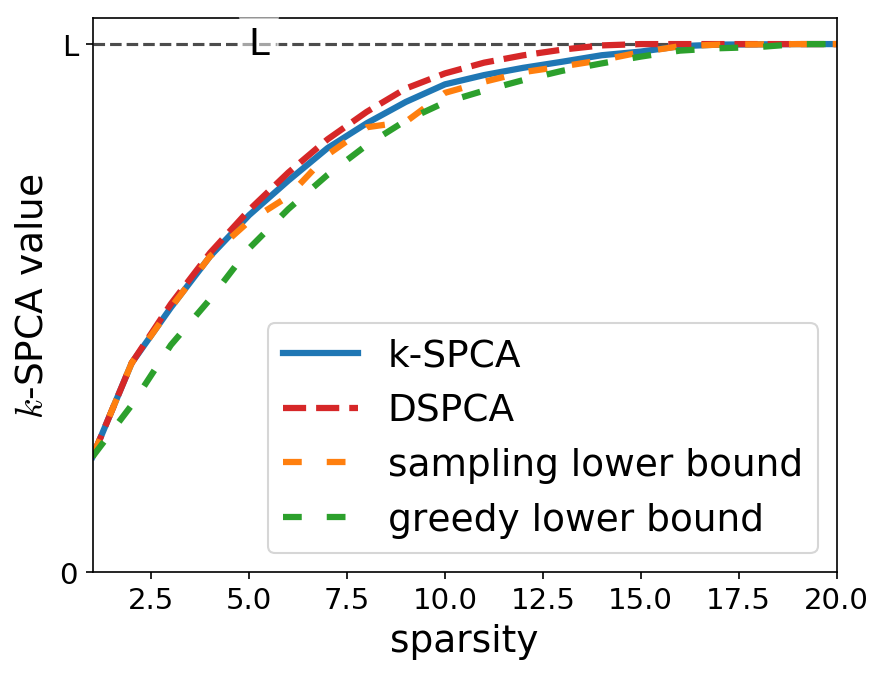
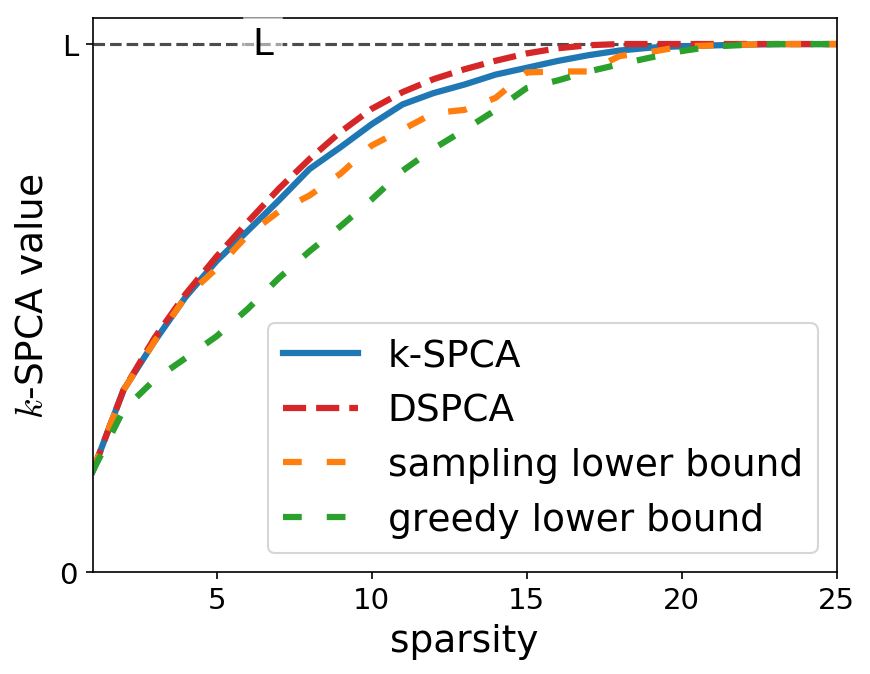
API add n_jobs to all functions

diff --git a/main.py b/main.py
@@ -29,7 +29,7 @@ if __name__ == "__main__":
         assert method in METHODS, f"Undefined method '{method}'"
         assert method in STYLES, f"You need to define a style for '{method}'"
 
-    K, p = 20, 10
+    K, p = 25, 10
     random_state = 42
     np.random.seed(random_state)
 
@@ -46,7 +46,7 @@ if __name__ == "__main__":
         print(f"\rComputing k-SPCA bounds: {(k-1) / K:7.2%}", end='',
               flush=True)
         for method in run_methods:
-            L_S = METHODS[method](B, k)
+            L_S = METHODS[method](B, k, n_jobs=6)
             if k > 1:
                 # Make sure the results are monotonic
                 L_S = max(L_S, results[method][-1])

diff --git a/spca/lower_bounds.py b/spca/lower_bounds.py
@@ -41,7 +41,7 @@ def compute_spca_lower_bound_sampling(B, k, n_samples=10000, n_jobs=1):
     return np.max(L_S)
 
 
-def compute_spca_lower_bound_greedy(B, k):
+def compute_spca_lower_bound_greedy(B, k, n_jobs=1):
     """Compute a lower bound of the k-sparse PCA of B.
 
     Parameters
@@ -50,6 +50,9 @@ def compute_spca_lower_bound_greedy(B, k):
         Matrix to extract the sub-matrix from
     k : int
         Sparsity level for the lower bound.
+    n_jobs : int (default: 1)
+        Number of jobs used for computations. Here, this parameter has no
+        effect.
 
     Return
     ------

diff --git a/spca/upper_bounds.py b/spca/upper_bounds.py
@@ -2,7 +2,7 @@
 import cvxpy as cvx
 
 
-def compute_spca_upperbound_optimal(B, k):
+def compute_spca_upperbound_optimal(B, k, n_jobs=1):
     """Compute an upper bound of the k-sparse PCA of B.
 
     Parameters
@@ -11,6 +11,9 @@ def compute_spca_upperbound_optimal(B, k):
         Matrix to extract the sub-matrix from
     k : int
         Sparsity level for the lower bound.
+    n_jobs : int (default: 1)
+        Number of jobs used for computations. Here, this parameter has no
+        effect.
 
     Return
     ------
